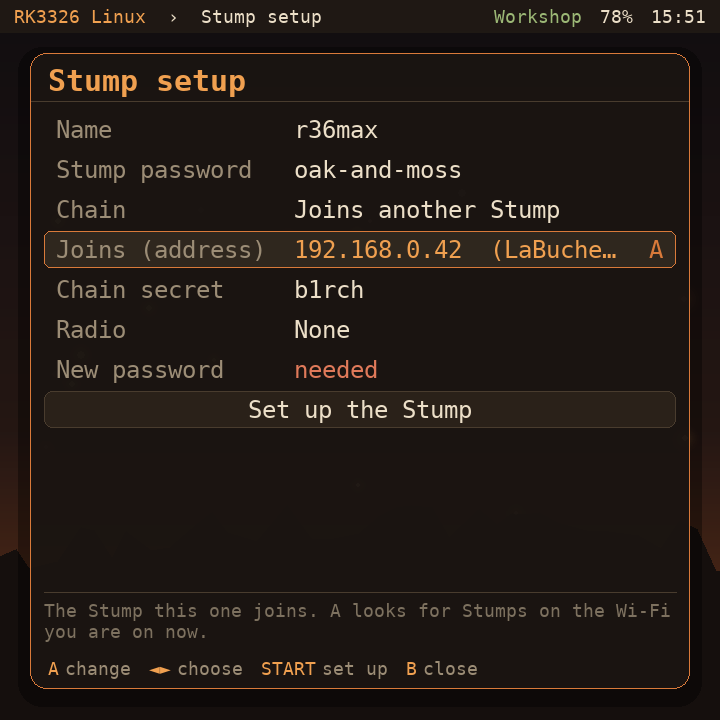
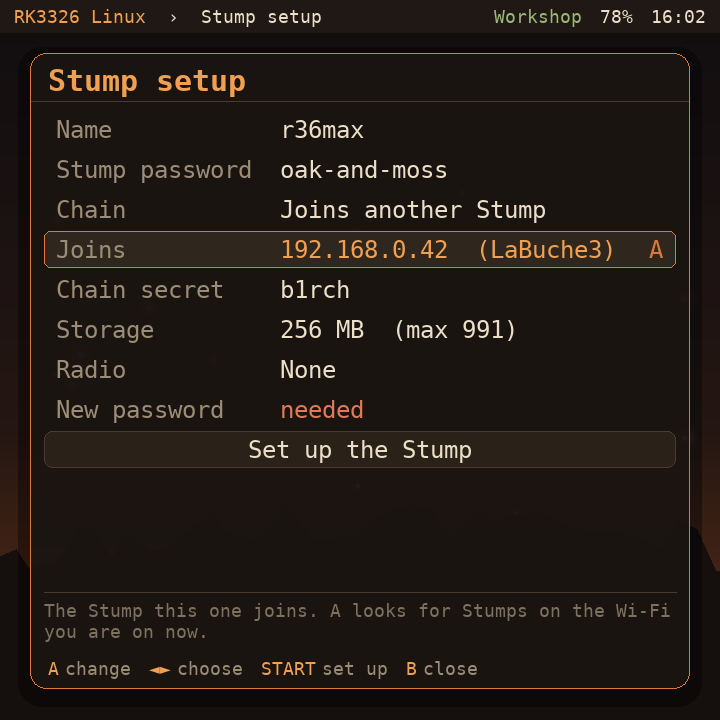
Stump setup: choose the storage size, within what is free
The form sent 2048 MB whatever the disk had, and the Stump's wizard refused
it on a card with 991 MB free. A Storage row now offers only sizes that fit
(the wizard's own sums: at most what is free, a quarter of it suggested).

Claude-Session: https://claude.ai/code/session_01Q4KZVCG4v531KAn4YG9359

diff --git a/shell/rkshell/pages/stumpsetup.py b/shell/rkshell/pages/stumpsetup.py
@@ -21,6 +21,7 @@ ABOUT = {"name": "The name other people see for this Stump.",
          "chain": "A chain links Stumps over Wi-Fi. On its own is fine to start.",
          "parent": "The Stump this one joins. A looks for Stumps on the Wi-Fi you are on now.",
          "secret": "Every Stump in a chain has the same secret. Note it down.",
+         "storage": "Room for what visitors share on this Stump. It fills to three quarters, then the oldest files make room.",
          "radio": "The LoRa radio. Choose USB only if a Heltec is plugged in.",
          "sudo": "This handheld's own password, for the installer's root steps. SELECT on the keyboard shows it.",
          "new": "This handheld still has its starting password. Choose your own, 8 characters or more: "
@@ -37,6 +38,7 @@ class StumpSetupPage(Page):
         super().__init__(app)
         self.sel, self.view, self.told = 0, "form", False
         self.expired, self.search, self.quiet = False, None, False
+        self.most, self.sizes = 256, [256]
 
     def enter(self):
         cls = StumpSetupPage
@@ -46,6 +48,9 @@ class StumpSetupPage(Page):
         if cls.job is not None:
             self.view = "running"
         self.expired = self.app.system.password_expired()
+        self.most, suggested, self.sizes = self.app.system.stump_storage()
+        if cls.form.get("storage") not in self.sizes:
+            cls.form["storage"] = suggested if suggested in self.sizes else self.sizes[0]
 
     # --------------------------------------------------------------- form
     def rows(self):
@@ -55,11 +60,11 @@ class StumpSetupPage(Page):
             keys.append("parent")
         if chain != "none":
             keys.append("secret")
-        return keys + ["radio", "sudo", "go"]
+        return keys + ["storage", "radio", "sudo", "go"]
 
     def label(self, key):
         return {"name": "Name", "pw": "Stump password", "chain": "Chain", "parent": "Joins",
-                "secret": "Chain secret", "radio": "Radio", "go": "",
+                "secret": "Chain secret", "storage": "Storage", "radio": "Radio", "go": "",
                 "sudo": "New password" if self.expired else "Your password"}[key]
 
     def value(self, key):
@@ -68,6 +73,8 @@ class StumpSetupPage(Page):
             return dict(CHAIN)[v]
         if key == "radio":
             return dict(RADIO)[v]
+        if key == "storage":
+            return f"{v} MB  (max {self.most})"
         if key == "sudo":
             return "•" * len(v) if v else "needed"
         if key == "go":
@@ -87,7 +94,7 @@ class StumpSetupPage(Page):
         self.app.push(Keyboard(self.app, self.label(key), done, secret=key == "sudo", initial=self.form[key]))
 
     def cycle(self, key, step):
-        options = [k for k, _ in (CHAIN if key == "chain" else RADIO)]
+        options = self.sizes if key == "storage" else [k for k, _ in (CHAIN if key == "chain" else RADIO)]
         self.form[key] = options[(options.index(self.form[key]) + step) % len(options)]
         if self.form["chain"] == "member" and not self.form["parent"] and self.search is None:
             self.look(quiet=True)
@@ -179,12 +186,12 @@ class StumpSetupPage(Page):
         key = keys[self.sel]
         if action in ("up", "down"):
             self.sel = (self.sel + (-1 if action == "up" else 1)) % len(keys)
-        elif action in ("left", "right") and key in ("chain", "radio"):
+        elif action in ("left", "right") and key in ("chain", "radio", "storage"):
             self.cycle(key, -1 if action == "left" else 1)
         elif action == "a":
             if key == "go":
                 self.start()
-            elif key in ("chain", "radio"):
+            elif key in ("chain", "radio", "storage"):
                 self.cycle(key, 1)
             elif key == "parent":
                 if self.search is None:
@@ -206,7 +213,7 @@ class StumpSetupPage(Page):
         row_h = f.line + 12 if len(keys) * (f.line + 12) <= room else f.line + 4
         visible = max(1, min(len(keys), room // row_h))
         top = max(0, min(self.sel - visible // 2, len(keys) - visible))
-        label_w = f.mono.size("Joins (address)  ")[0]
+        label_w = f.mono.size("Stump password  ")[0]
         y = area.y + 6
         for i, key in list(enumerate(keys))[top:top + visible]:
             r = pygame.Rect(area.x + pad, y, area.w - 2 * pad, row_h - 3)
@@ -223,7 +230,7 @@ class StumpSetupPage(Page):
                 G.text(surf, f.mono, self.label(key), (r.x + 12, ty), T.MUTED)
                 G.text(surf, f.mono, G.fit(f.mono, text, r.w - label_w - 70), (r.x + 12 + label_w, ty), colour)
                 if sel:
-                    G.text(surf, f.mono, "◄ ►" if key in ("chain", "radio") else "A", (r.right - 12, ty), T.EMBER, right=True)
+                    G.text(surf, f.mono, "◄ ►" if key in ("chain", "radio", "storage") else "A", (r.right - 12, ty), T.EMBER, right=True)
             y += row_h
         y = area.bottom - foot
         pygame.draw.line(surf, T.BORDER, (area.x + pad, y), (area.right - pad, y))

diff --git a/shell/rkshell/system.py b/shell/rkshell/system.py
@@ -166,6 +166,33 @@ IPV4 = re.compile(r"^(\d{1,3})\.(\d{1,3})\.(\d{1,3})\.(\d{1,3})$")
 ASKPASS = '#!/bin/sh\ncat "$RK_ASKPASS_FILE"\n'
 
 
+STUMP_SIZES = (256, 512, 768, 1024, 1536, 2048, 4096, 8192, 16384)
+
+
+def stump_storage(folder="~/Stump"):
+    """How big the Stump's "card" (its sd/ folder) may be here, in MB:
+    (most, suggested, sizes to offer). The same sums as the Stump's wizard:
+    at most what is free, suggested a quarter of it in steps of 256 MB, 2048
+    at most. A little is held back for what the installer itself writes."""
+    p = os.path.expanduser(folder)
+    used = 0
+    for d, _, names in os.walk(os.path.join(p, "sd")):
+        for n in names:
+            try:
+                used += os.path.getsize(os.path.join(d, n))
+            except OSError:
+                pass
+    while not os.path.exists(p) and p != os.path.dirname(p):
+        p = os.path.dirname(p)
+    try:
+        free = shutil.disk_usage(p).free
+    except OSError:
+        free = 0
+    most = max(256, (free + used) // 1024 ** 2 - 128)
+    suggested = max(256, min(2048, free // 4 // 1024 ** 2 // 256 * 256))
+    return most, suggested, [n for n in STUMP_SIZES if n <= most] or [256]
+
+
 def stump_answers(form):
     """The setup form -> the answers file of the Stump's wizard
     (SandBox_Stump_On's `provisioner.py --pc --answers`: the keys are its
@@ -177,8 +204,14 @@ def stump_answers(form):
         return {"error": "Give this Stump a name"}
     if not 4 <= len(pw) <= 64:
         return {"error": "The Stump's password: 4 to 64 characters"}
+    try:
+        mb = int(form.get("storage") or 0)
+    except (TypeError, ValueError):
+        mb = 0
+    if mb < 256:
+        return {"error": "Storage: 256 MB or more"}
     out = {"folder for this stump": os.path.expanduser("~/Stump"), "node name": name,
-           "the wi-fi name visitors join": name, "storage for this stump, in mb": "2048",
+           "the wi-fi name visitors join": name, "storage for this stump, in mb": str(mb),
            "is this stump part of a chain": form.get("chain") in ("first", "member"),
            "the heltec": "Plugged into this computer by USB" if form.get("radio") == "usb" else "None",
            "start this stump automatically when you log in": True,
@@ -654,6 +687,9 @@ class System:
     def password_expired(self):
         return password_expired()
 
+    def stump_storage(self):
+        return stump_storage()
+
     def stump_search(self):
         return StumpSearch(self.own_networks())
 
@@ -737,6 +773,7 @@ class DemoSystem(System):
                 {"name": "Provisioner", "icon": "chip", "group": "Workshop", "about": "Flash ESP32 boards and radios", "ready": False}]
 
     def password_expired(self): return True
+    def stump_storage(self): return 991, 256, [256, 512, 768]
 
     def stump_search(self):
         job = StumpSearch.__new__(StumpSearch)

diff --git a/docs/apps.md b/docs/apps.md
@@ -48,6 +48,10 @@ Wi-Fi, takes a few minutes, and asks for this handheld's password because the
 installer needs root for a few steps. The password goes to `sudo` and is not
 kept; the answers file is removed when the installer ends.
 
+**Storage** is the room for what visitors share. The window offers only
+sizes that fit the space free on the system partition, as the Stump's own
+wizard would allow.
+
 For a Stump that joins another, the window looks for Stumps on the Wi-Fi the
 handheld is on and lists them, so no address is typed. On a card whose
 password has never been changed, the window asks for a new one and sets it
